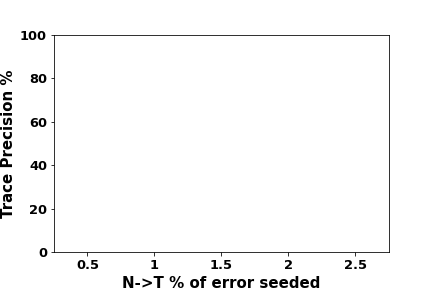
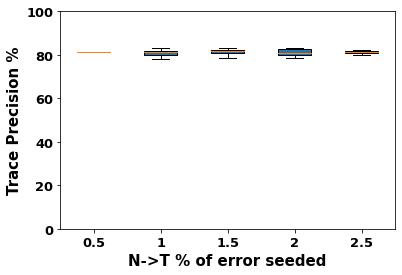
ICSME2021Paper New Results

diff --git a/errorSeedingICSME2021.py b/errorSeedingICSME2021.py
@@ -84,7 +84,7 @@ def main():
     X_train, X_test2, y_train, y_test2 = train_test_split(X, y, test_size=0.5, random_state=1)    
 
     #print(CorrectData)
-    '''path = 'TtoN'
+    path = 'TtoN'
     print_precision_recall(path, X_train, y_train)
     
     
@@ -95,16 +95,16 @@ def main():
     drawboxplots('Rec_T', TtoN5RecT, TtoN10RecT, TtoN15RecT, TtoN20RecT, TtoN25RecT, 'Trace Recall %', 
                  'T->N % of error seeded', './boxplots/TraceRecallVsTtoNError')
     drawboxplots('Rec_N', TtoN5RecN, TtoN10RecN, TtoN15RecN, TtoN20RecN, TtoN25RecN, 'NoTrace Recall %', 
-                 'T->N % of error seeded', './boxplots/NoTraceRecallVsTtoNError')'''
+                 'T->N % of error seeded', './boxplots/NoTraceRecallVsTtoNError')
    
    
-    path = 'NtoT'
+    '''path = 'NtoT'
     print_precision_recall(path, X_train, y_train)
 
     drawboxplots('Prec_T', NtoT0_5PrecT, NtoT1PrecT, NtoT1_5PrecT, NtoT2PrecT, NtoT2_5PrecT, 'Trace Precision %', 'N->T % of error seeded', './boxplots/TracePrecisionVsNtoTError')
     drawboxplots('Prec_N', NtoT0_5PrecN, NtoT1PrecN, NtoT1_5PrecN, NtoT2PrecN, NtoT2_5PrecN, 'NoTrace Precision %',  'N->T % of error seeded', './boxplots/NoTracePrecisionVsNtoTError')
     drawboxplots('Rec_T', NtoT0_5RecT, NtoT1RecT, NtoT1_5RecT, NtoT2RecT, NtoT2_5RecT, 'Trace Recall %',  'N->T % of error seeded', './boxplots/TraceRecallVsNtoTError')
-    drawboxplots('Rec_N', NtoT0_5RecN, NtoT1RecN, NtoT1_5RecN, NtoT2RecN, NtoT2_5RecN, 'NoTrace Recall %', 'N->T % of error seeded', './boxplots/NoTraceRecallVsNtoTError')
+    drawboxplots('Rec_N', NtoT0_5RecN, NtoT1RecN, NtoT1_5RecN, NtoT2RecN, NtoT2_5RecN, 'NoTrace Recall %', 'N->T % of error seeded', './boxplots/NoTraceRecallVsNtoTError')'''
 
 def drawboxplots(prec_T, array1, array2, array3, array4, array5, ylabel, xlabel, figname):
     box_plot_data=[array1,array2,array3,array4, array5]
@@ -127,8 +127,8 @@ def print_precision_recall(path, X_train, y_train):
     X_test={}
     y_train={}
     y_test={}
-    
-    path = 'NtoT'
+    #change line below to TtoN or NtoT depending on seeding type 
+    path = 'TtoN'
     files = os.listdir(path)
 
     for f in files:
@@ -185,7 +185,18 @@ def print_precision_recall(path, X_train, y_train):
             appendToArray(NtoT2PrecT, NtoT2PrecN, NtoT2RecT, NtoT2RecN, Prec_T, Rec_T, Prec_N, Rec_N)
         elif(filename.find('NtoT-2.5')!=-1):
             appendToArray(NtoT2_5PrecT, NtoT2_5PrecN, NtoT2_5RecT, NtoT2_5RecN, Prec_T, Rec_T, Prec_N, Rec_N)
-
+        
+        if(filename.find('TtoN-5')!=-1):
+            appendToArray(TtoN5PrecT, TtoN5PrecN, TtoN5RecT, TtoN5RecN, Prec_T, Rec_T, Prec_N, Rec_N)
+        elif(filename.find('TtoN-10')!=-1):
+            appendToArray(TtoN10PrecT, TtoN10PrecN, TtoN10RecT, TtoN10RecN, Prec_T, Rec_T, Prec_N, Rec_N)
+        elif(filename.find('TtoN-15')!=-1):
+            appendToArray(TtoN15PrecT, TtoN15PrecN, TtoN15RecT, TtoN15RecN, Prec_T, Rec_T, Prec_N, Rec_N)
+        elif(filename.find('TtoN-20')!=-1):
+            appendToArray(TtoN20PrecT, TtoN20PrecN, TtoN20RecT, TtoN20RecN, Prec_T, Rec_T, Prec_N, Rec_N)
+        elif(filename.find('TtoN-25')!=-1):
+            appendToArray(TtoN25PrecT, TtoN25PrecN, TtoN25RecT, TtoN25RecN, Prec_T, Rec_T, Prec_N, Rec_N)
+            
 
 def appendToArray(PrecTArray, PrecNArray, RecTArray, RecNArray,Prec_T, Rec_T, Prec_N, Rec_N):
     Prec_T=round(Prec_T*100,2)
